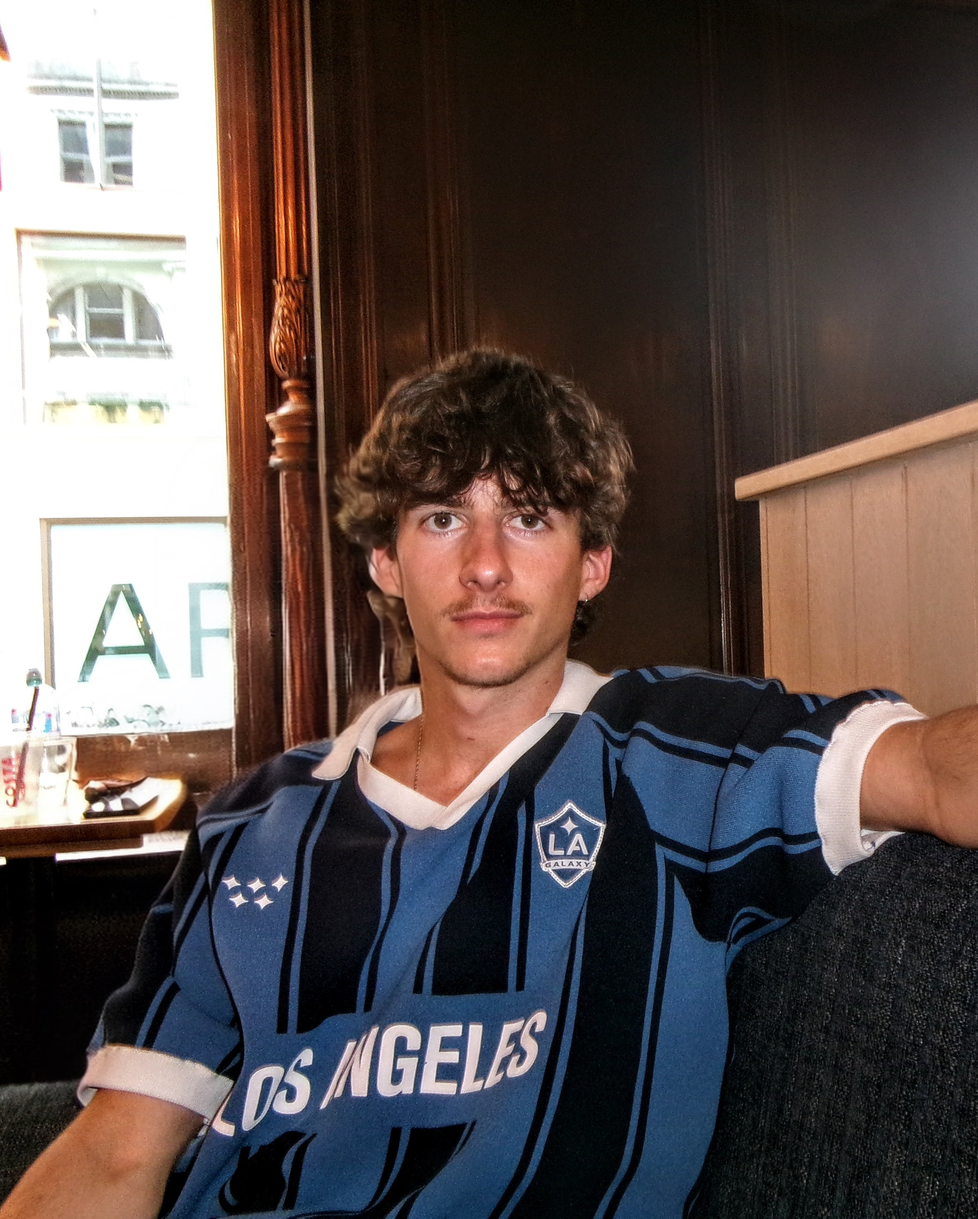
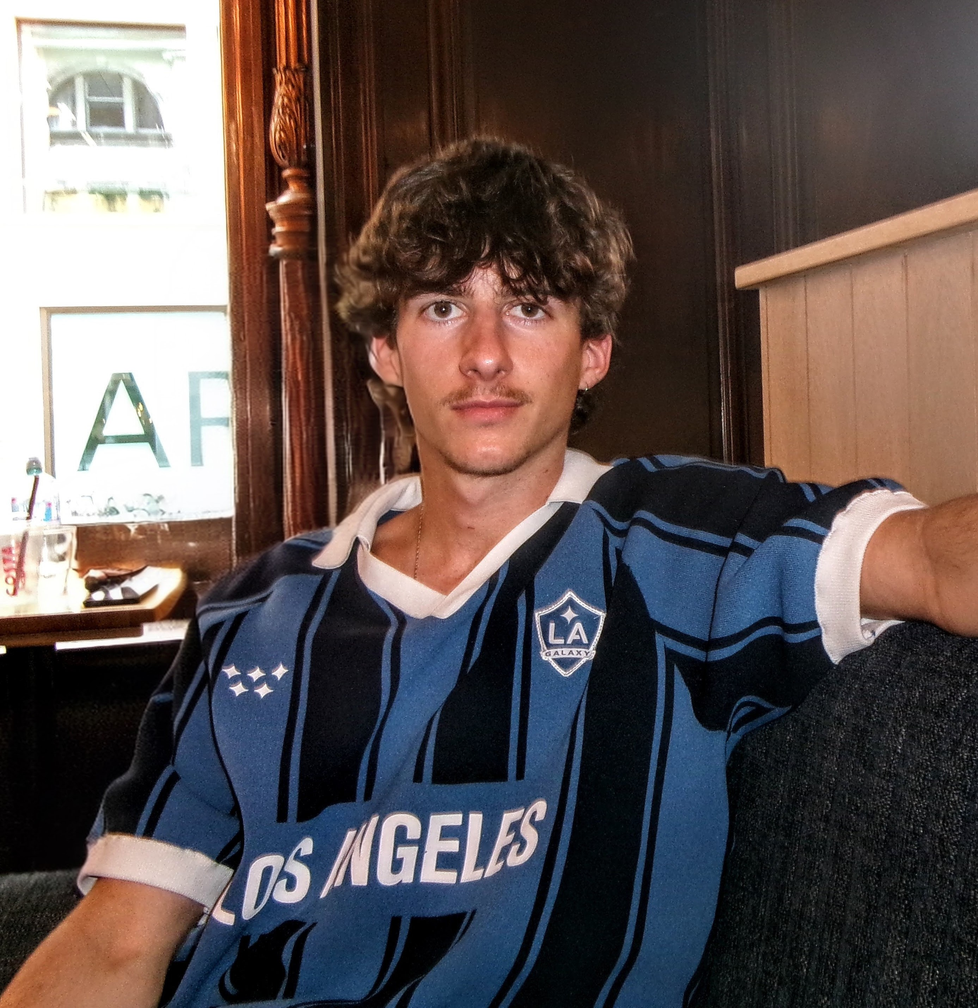
Add files via upload

diff --git a/MY_PROJECTS/My_Web_CV/style.css b/MY_PROJECTS/My_Web_CV/style.css
@@ -5,6 +5,7 @@
      margin-right: auto;
      overflow: scroll;
      background-color: #ebeaea;
+
  }
 
  h1 {
@@ -27,14 +28,10 @@
  p,
  a {
      font-family: "space mono";
+
  }
 
- .navsection {
-     padding-top: 32px;
-     max-width: 940px;
-     margin-left: auto;
-     margin-right: auto;
- }
+
 
  a {
      background-color: #0000;
@@ -49,6 +46,14 @@
  }
 
  /* navbar */
+ .navsection {
+     padding-top: 32px;
+     max-width: 940px;
+     margin-left: auto;
+     margin-right: auto;
+     height: 150px;
+ }
+
  .nameLogo {
 
      float: left;
@@ -92,7 +97,7 @@
 
 
  .mycontain {
-     padding-top: 128px;
+     padding-top: 70px;
      padding-bottom: 96px;
  }
 
@@ -236,6 +241,102 @@
 
  /* hero of my about me page */
 
- .aboutmepic {
-     width: 40%;
+ .hero-about {
+     background-color: #c0bfbf;
+     background-size: cover;
+     background-position: center;
+     background-repeat: no-repeat;
+
+     height: 600px;
+     border-radius: 8px;
+
+
+ }
+
+ .hero-about .about-content {
+     padding: 20px 20px;
+ }
+
+ .about-img {
+     width: 480px;
+     border-radius: 8px;
+ }
+
+ .about-img2 {
+     width: 300px;
+     border-radius: 27px;
+
+ }
+
+
+ .about-text {
+     font-size: 0.95rem;
+     line-height: 1.6;
+     color: #000000;
+     width: 300px;
+
+ }
+
+ .about-hero-pt1 {
+     display: flex;
+     padding-top: 40px;
+ }
+
+ .about-content {
+     flex: 0 0 45%;
+     position: absolute;
+     gap: 10rem;
+     padding: 80px 0;
+     display: flex;
+     justify-content: center;
+     align-items: center;
+     gap: 4rem;
+ }
+
+ .h1-about {
+     /* font-size: 90px; */
+     font-weight: 800;
+     font-size: 85px;
+     /* big but responsive */
+     letter-spacing: 0.15em;
+     text-transform: uppercase;
+     margin: 0 0 24px;
+     padding-top: 20px;
+     padding-left: 270px;
+     color: #000000
+ }
+
+ .about-content2 {
+     background-color: #415a77;
+     border-radius: 8px;
+     flex: 0 0 45%;
+     position: absolute;
+     gap: 10rem;
+     padding-top: 20px;
+     display: flex;
+     justify-content: center;
+     align-items: center;
+     gap: 4rem;
+     margin-top: 70px;
+ }
+
+ .about-content2 img,
+ p {
+     padding: 20px 25px;
+ }
+
+ .about-text2 {
+     font-size: 0.95rem;
+     line-height: 1.6;
+     color: #000000;
+     max-width: 36rem;
+     margin: 0 auto;
+ }
+
+ .space {
+     padding: 320px;
+ }
+
+ .space-res {
+     padding: 300px;
  }

diff --git a/MY_PROJECTS/My_Web_CV/about.html b/MY_PROJECTS/My_Web_CV/about.html
@@ -29,14 +29,66 @@
 
 
         </nav>
-        <div class="coverpg">
-            <img class="aboutmepic" src="Aboutmepic.JPG" alt="About Andre photo">
-            <h1>About Me!</h1>
-            <p>Lorem ipsum dolor, sit amet consectetur adipisicing elit. Soluta corrupti illo tempora velit praesentium
-                facilis facere consequatur minima voluptatum, sit placeat sed veniam, iste, dolore molestiae natus.
-                Saepe, pariatur delectus!</p>
-        </div>
+
     </section>
+
+
+
+
+    <div class="hero-about">
+        <div class="about-hero-pt1">
+
+            <h1 class="h1-about">About Me!</h1>
+
+
+        </div>
+        <div class="about-content">
+
+            <img class="about-img" src="Aboutmepic.JPG" alt="About Andre photo">
+            <p class="about-text">Lorem ipsum dolor, sit amet consectetur adipisicing elit. Soluta corrupti illo
+                tempora velit
+                praesentium
+                facilis facere consequatur minima vo
+            </p>
+
+        </div>
+    </div>
+    <div class="hero-about2"></div>
+    <div class="about-content2">
+
+
+        <p class="about-text2">Lorem ipsum dolor, sit amet consectetur adipisicing elit. Soluta corrupti illo
+            tempora velit
+            praesentium
+            facilis facere consequatur minima vo
+        </p>
+        <img src="ontop-mtn.jpg" class="about-img2" alt="andre on top of a mountain">
+
+    </div>
+    </div>
+    <div class="space"></div>
+
+
+    <footer>
+        <div>
+            <hr>
+        </div>
+        <div class="ft-content">
+
+            <div class="ftbox">
+                <h3 class="ft-h3">Email</h3>
+                <p><b>andree.caabrol@gmail.com</b></p>
+            </div>
+            <div class="ftbox">
+                <h3 class="ft-h3">Github</h3>
+                <a href="" alt="Github link"><img src="github.png" class="ft-social" alt="github logo"></a>
+            </div>
+            <div class="ftbox">
+                <p class="rights">&copy; 2026 by Andre Cabrol. All rights reserved.</p>
+            </div>
+        </div>
+
+    </footer>
 
 
 </body>

diff --git a/MY_PROJECTS/My_Web_CV/Resume.html b/MY_PROJECTS/My_Web_CV/Resume.html
@@ -38,7 +38,9 @@
                 </div>
             </div>
         </div>
+
     </section>
+    <div class="space-res"></div>
     <footer>
         <div>
             <hr>
